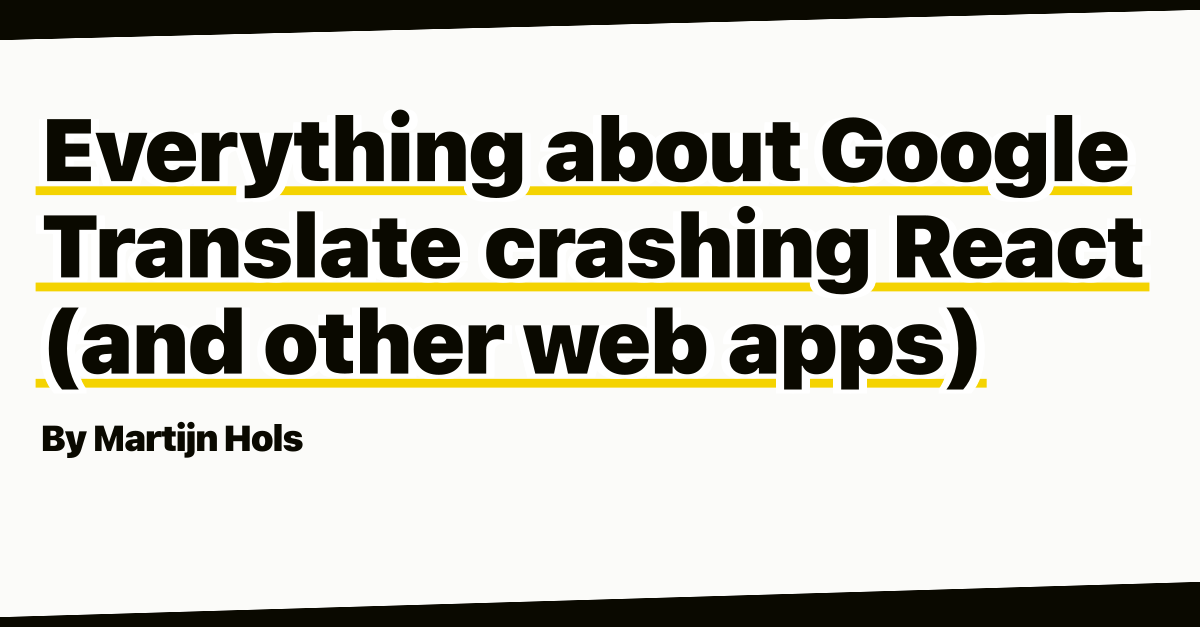
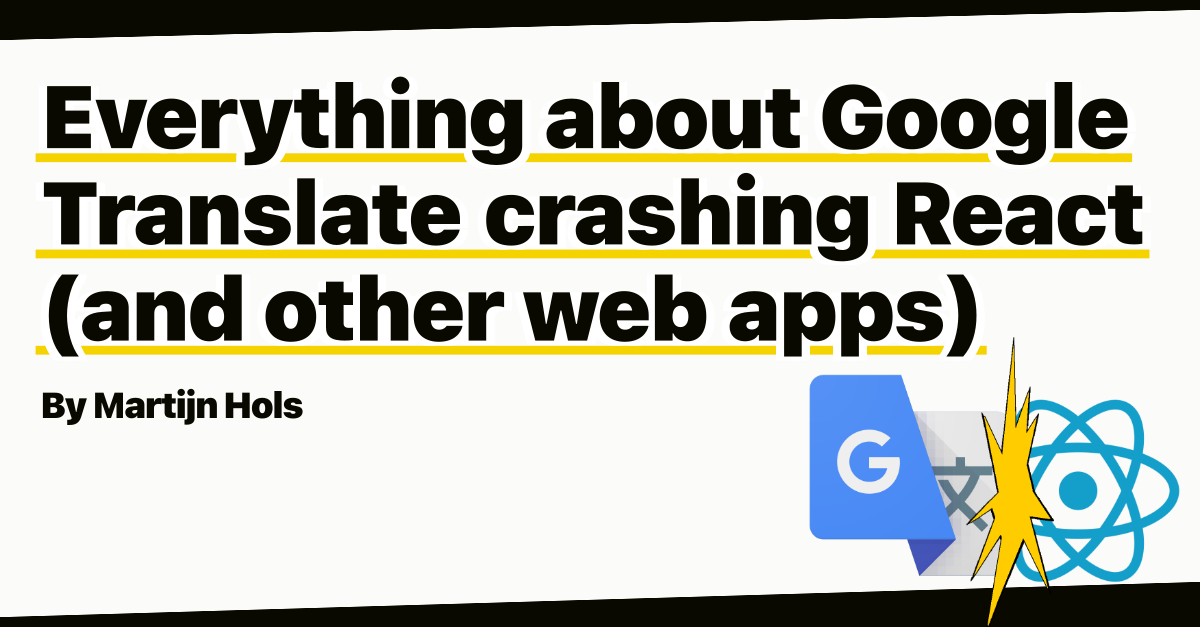
Add image for google translate crashing react article

diff --git a/pages/blog/everything-about-google-translate-crashing-react.tsx b/pages/blog/everything-about-google-translate-crashing-react.tsx
@@ -20,6 +20,7 @@ import activateGoogleTranslateImage from './assets/google-translate-activate.gif
 import autoCardAnywhereImage from './assets/google-translate-autocardanywhere.png'
 import chromeLanguageSetupImage from './assets/google-translate-language-setup.gif'
 import lightsMemeImage from './assets/google-translate-lights-meme.gif'
+import googleTranslateReactClashingImage from './assets/google-translate-react-clashing.png'
 import openGraphImage from './assets/ogimage-everything-about-google-translate-crashing-react.png'
 import GoogleTranslateCrashesMonkeyPatchRepro from './demo/google-translate-crashes-monkey-patch-repro'
 import GoogleTranslateCrashesRepro from './demo/google-translate-crashes-repro'
@@ -37,6 +38,7 @@ const { meta, getStaticProps } = articleMeta({
   description:
     'A deep dive into Google Translate (and other browser extensions) interference breaking React and other web apps.',
   openGraphImage: openGraphImage,
+  image: googleTranslateReactClashingImage,
   publishedAt: '2024-05-29',
   tags: [
     BlogArticleTag.React,
